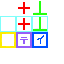
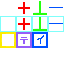
水追加、水の上を歩ける

Changed region(s): [[0.75, 0.25, 1.0, 0.5], [0.75, 0.0938, 1.0, 0.125]]

diff --git a/Solution/AceEditor/ObjectPreview.cpp b/Solution/AceEditor/ObjectPreview.cpp
@@ -229,6 +229,11 @@ void ObjectPreview::draw( ) const {
 				_block->setPos( PREVIEW_X + i * OBJECT_CHIP_SIZE, PREVIEW_Y + j * OBJECT_CHIP_SIZE );
 				_block->draw( );
 			}
+			if ( _data->getObject( ox, oy ) == OBJECT_WATER ) {
+				_block->setRect( 32, 16, OBJECT_CHIP_SIZE, OBJECT_CHIP_SIZE );
+				_block->setPos( PREVIEW_X + i * OBJECT_CHIP_SIZE, PREVIEW_Y + j * OBJECT_CHIP_SIZE );
+				_block->draw( );
+			}
 
 			//event
 			if ( _data->getObject( ox, oy ) == OBJECT_EVENT_REDDAEMON ) {

diff --git a/Solution/AceCommon/ace_define.h b/Solution/AceCommon/ace_define.h
@@ -136,6 +136,7 @@ const unsigned char OBJECT_ENEMY_END = 0x7F;
 //block
 const unsigned char OBJECT_BLOCK  = 0x80;
 const unsigned char OBJECT_ONEWAY = 0x81;
+const unsigned char OBJECT_WATER  = 0x82;
 //event
 const unsigned char OBJECT_EVENT_REDDAEMON = 0xC0;
 const unsigned char OBJECT_EVENT_FIRE	= 0xC1;

diff --git a/Solution/AceEditor/ObjectMenu.cpp b/Solution/AceEditor/ObjectMenu.cpp
@@ -202,6 +202,9 @@ unsigned char ObjectMenu::getObj( int idx ) const {
 	case 2:
 		result = OBJECT_ONEWAY;
 		break;
+	case 3:
+		result = OBJECT_WATER;
+		break;
 	default:
 		result = _object_editor->getObject( );
 		break;
